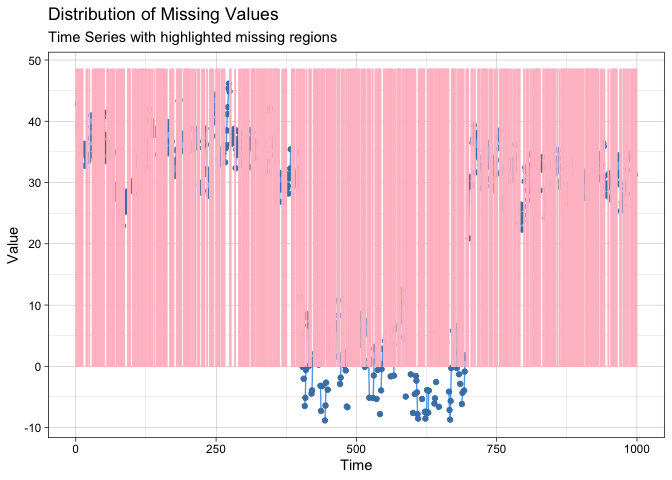
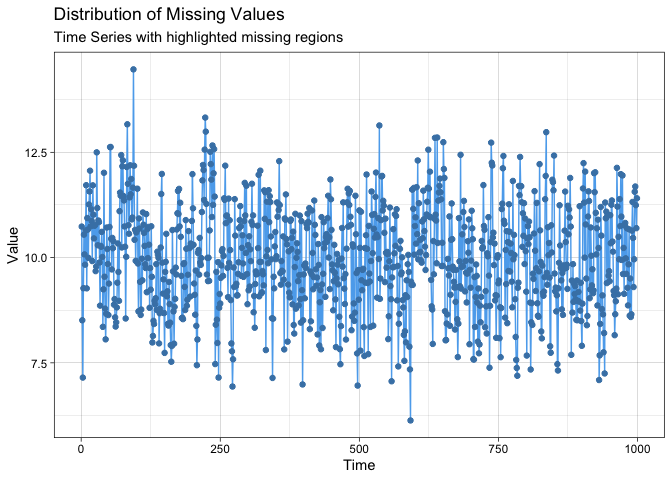
impute graph

diff --git a/docs/index.html b/docs/index.html
@@ -173,15 +173,12 @@
 </tbody>
 </table>
 <div class="sourceCode" id="cb4"><pre class="downlit sourceCode r">
-<code class="sourceCode R"><span class="fu">imputeTS</span><span class="fu">::</span><span class="fu"><a href="https://SteffenMoritz.github.io/imputeTS/reference/ggplot_na_distribution.html" class="external-link">ggplot_na_distribution</a></span><span class="op">(</span><span class="va">data_space_SSMimpute</span><span class="op">$</span><span class="va">y</span>, color_missing <span class="op">=</span> <span class="st">"pink"</span>,color_missing_border <span class="op">=</span> <span class="st">"pink"</span>, alpha_missing <span class="op">=</span> <span class="fl">0.9</span><span class="op">)</span></code></pre></div>
+<code class="sourceCode R"><span class="fu">imputeTS</span><span class="fu">::</span><span class="fu"><a href="https://SteffenMoritz.github.io/imputeTS/reference/ggplot_na_distribution.html" class="external-link">ggplot_na_distribution</a></span><span class="op">(</span><span class="va">data_space_SSMimpute</span><span class="op">$</span><span class="va">x</span>, color_missing <span class="op">=</span> <span class="st">"pink"</span>,color_missing_border <span class="op">=</span> <span class="st">"pink"</span>, alpha_missing <span class="op">=</span> <span class="fl">0.9</span><span class="op">)</span></code></pre></div>
 <p><img src="reference/figures/README-unnamed-chunk-4-1.png" width="100%"></p>
 <div class="sourceCode" id="cb5"><pre class="downlit sourceCode r">
-<code class="sourceCode R"><span class="fu">imputeTS</span><span class="fu">::</span><span class="fu"><a href="https://SteffenMoritz.github.io/imputeTS/reference/ggplot_na_distribution.html" class="external-link">ggplot_na_distribution</a></span><span class="op">(</span><span class="va">data_space_SSMimpute</span><span class="op">$</span><span class="va">x</span>, color_missing <span class="op">=</span> <span class="st">"pink"</span>,color_missing_border <span class="op">=</span> <span class="st">"pink"</span>, alpha_missing <span class="op">=</span> <span class="fl">0.9</span><span class="op">)</span></code></pre></div>
+<code class="sourceCode R"><span class="fu">imputeTS</span><span class="fu">::</span><span class="fu"><a href="https://SteffenMoritz.github.io/imputeTS/reference/ggplot_na_distribution.html" class="external-link">ggplot_na_distribution</a></span><span class="op">(</span><span class="va">data_space_SSMimpute</span><span class="op">$</span><span class="va">c</span>, color_missing <span class="op">=</span> <span class="st">"pink"</span>,color_missing_border <span class="op">=</span> <span class="st">"pink"</span>, alpha_missing <span class="op">=</span> <span class="fl">0.9</span><span class="op">)</span></code></pre></div>
 <p><img src="reference/figures/README-unnamed-chunk-4-2.png" width="100%"></p>
 <div class="sourceCode" id="cb6"><pre class="downlit sourceCode r">
-<code class="sourceCode R"><span class="fu">imputeTS</span><span class="fu">::</span><span class="fu"><a href="https://SteffenMoritz.github.io/imputeTS/reference/ggplot_na_distribution.html" class="external-link">ggplot_na_distribution</a></span><span class="op">(</span><span class="va">data_space_SSMimpute</span><span class="op">$</span><span class="va">c</span>, color_missing <span class="op">=</span> <span class="st">"pink"</span>,color_missing_border <span class="op">=</span> <span class="st">"pink"</span>, alpha_missing <span class="op">=</span> <span class="fl">0.9</span><span class="op">)</span></code></pre></div>
-<p><img src="reference/figures/README-unnamed-chunk-4-3.png" width="100%"></p>
-<div class="sourceCode" id="cb7"><pre class="downlit sourceCode r">
 <code class="sourceCode R"><span class="va">printFlag</span><span class="op">=</span><span class="cn">T</span>
 <span class="va">formula</span><span class="op">=</span><span class="st">"y~y_1+x+x_1+c"</span>
 <span class="va">formula_var</span><span class="op">=</span><span class="fu"><a href="https://rdrr.io/r/base/unlist.html" class="external-link">unlist</a></span><span class="op">(</span><span class="fu"><a href="https://rdrr.io/r/base/strsplit.html" class="external-link">strsplit</a></span><span class="op">(</span><span class="fu"><a href="https://rdrr.io/r/base/unlist.html" class="external-link">unlist</a></span><span class="op">(</span><span class="fu"><a href="https://rdrr.io/r/base/strsplit.html" class="external-link">strsplit</a></span><span class="op">(</span><span class="va">formula</span>,<span class="st">"~"</span><span class="op">)</span><span class="op">)</span><span class="op">[</span><span class="fl">2</span><span class="op">]</span>,<span class="st">"+"</span>,fixed<span class="op">=</span><span class="cn">T</span><span class="op">)</span><span class="op">)</span>
@@ -430,7 +427,7 @@
 <span class="co">#&gt; Warning in BINSEG(sumstat, pen = pen.value, cost_func = costfunc, minseglen</span>
 <span class="co">#&gt; = minseglen, : The number of changepoints identified is Q, it is advised to</span>
 <span class="co">#&gt; increase Q to make sure changepoints have not been missed.</span></code></pre></div>
-<div class="sourceCode" id="cb8"><pre class="downlit sourceCode r">
+<div class="sourceCode" id="cb7"><pre class="downlit sourceCode r">
 <code class="sourceCode R"><span class="co">#kable(result_statespace_SSMimpute1$result_convergence)</span>
 <span class="co">#kable(result_statespace_SSMimpute1$result_convergence_mp)</span>
 <span class="fu">kable</span><span class="op">(</span><span class="va">result_statespace_SSMimpute1</span><span class="op">$</span><span class="va">result_convergence_mp_addV</span><span class="op">)</span></code></pre></div>
@@ -488,9 +485,22 @@
 </tr>
 </tbody>
 </table>
-<div class="sourceCode" id="cb9"><pre class="downlit sourceCode r">
+<div class="sourceCode" id="cb8"><pre class="downlit sourceCode r">
 <code class="sourceCode R"><span class="va">result_statespace_SSMimpute1</span><span class="op">$</span><span class="va">estimated_cpts</span>
 <span class="co">#&gt; [1] 399 700</span></code></pre></div>
+<div class="sourceCode" id="cb9"><pre class="downlit sourceCode r">
+<code class="sourceCode R"><span class="va">data_na</span> <span class="op">=</span> <span class="va">result_statespace_SSMimpute1</span><span class="op">$</span><span class="va">data_temp</span>
+<span class="fu"><a href="https://rdrr.io/r/base/length.html" class="external-link">length</a></span><span class="op">(</span><span class="va">data_na</span><span class="op">$</span><span class="va">y_1</span><span class="op">)</span>
+<span class="co">#&gt; [1] 999</span>
+
+<span class="va">data_temp</span> <span class="op">=</span> <span class="va">result_statespace_SSMimpute1</span><span class="op">$</span><span class="va">data_temp</span>
+<span class="va">missing_part</span><span class="op">=</span><span class="fu"><a href="https://rdrr.io/r/base/which.html" class="external-link">which</a></span><span class="op">(</span><span class="fu"><a href="https://rdrr.io/r/base/NA.html" class="external-link">is.na</a></span><span class="op">(</span><span class="va">data_temp</span><span class="op">$</span><span class="va">y</span><span class="op">)</span><span class="op">)</span><span class="op">[</span><span class="fu"><a href="https://rdrr.io/r/base/which.html" class="external-link">which</a></span><span class="op">(</span><span class="fu"><a href="https://rdrr.io/r/base/NA.html" class="external-link">is.na</a></span><span class="op">(</span><span class="va">data_temp</span><span class="op">$</span><span class="va">y</span><span class="op">)</span><span class="op">)</span><span class="op">&lt;</span><span class="fu"><a href="https://rdrr.io/r/base/nrow.html" class="external-link">nrow</a></span><span class="op">(</span><span class="va">data_temp</span><span class="op">)</span><span class="op">]</span>
+<span class="va">data_temp</span><span class="op">$</span><span class="va">y_1</span><span class="op">[</span><span class="va">missing_part</span><span class="op">+</span><span class="fl">1</span><span class="op">]</span><span class="op">=</span><span class="va">result_statespace_SSMimpute1</span><span class="op">$</span><span class="va">y_final</span>
+<span class="fu">imputeTS</span><span class="fu">::</span><span class="fu"><a href="https://SteffenMoritz.github.io/imputeTS/reference/ggplot_na_distribution.html" class="external-link">ggplot_na_distribution</a></span><span class="op">(</span><span class="va">data_space_SSMimpute</span><span class="op">$</span><span class="va">y_1</span>, color_missing <span class="op">=</span> <span class="st">"pink"</span>,color_missing_border <span class="op">=</span> <span class="st">"pink"</span>, alpha_missing <span class="op">=</span> <span class="fl">0.9</span><span class="op">)</span></code></pre></div>
+<p><img src="reference/figures/README-unnamed-chunk-7-1.png" width="100%"></p>
+<div class="sourceCode" id="cb10"><pre class="downlit sourceCode r">
+<code class="sourceCode R"><span class="fu">imputeTS</span><span class="fu">::</span><span class="fu"><a href="https://SteffenMoritz.github.io/imputeTS/reference/ggplot_na_imputations.html" class="external-link">ggplot_na_imputations</a></span><span class="op">(</span>x_with_na <span class="op">=</span>  <span class="va">data_space_SSMimpute</span><span class="op">$</span><span class="va">y_1</span>, x_with_imputations <span class="op">=</span> <span class="va">data_na</span><span class="op">$</span><span class="va">y_1</span><span class="op">)</span></code></pre></div>
+<p><img src="reference/figures/README-unnamed-chunk-7-2.png" width="100%"></p>
 </div>
 </div>
   </main><aside class="col-md-3"><div class="links">

diff --git a/docs/reference/printer.html b/docs/reference/printer.html
@@ -78,13 +78,13 @@
 <span class="r-wrn co"><span class="r-pr">#&gt;</span> <span style="color: #555555;">This warning is displayed once every 8 hours.</span></span>
 <span class="r-wrn co"><span class="r-pr">#&gt;</span> <span style="color: #555555;">Call `lifecycle::last_lifecycle_warnings()` to see where this warning was generated.</span></span>
 <span class="r-out co"><span class="r-pr">#&gt;</span> <span style="color: #949494;"># A tibble: 5 × 1</span></span>
-<span class="r-out co"><span class="r-pr">#&gt;</span>     value</span>
-<span class="r-out co"><span class="r-pr">#&gt;</span>     <span style="color: #949494; font-style: italic;">&lt;dbl&gt;</span></span>
-<span class="r-out co"><span class="r-pr">#&gt;</span> <span style="color: #BCBCBC;">1</span>  0.031<span style="text-decoration: underline;">3</span></span>
-<span class="r-out co"><span class="r-pr">#&gt;</span> <span style="color: #BCBCBC;">2</span> -<span style="color: #BB0000;">0.256</span> </span>
-<span class="r-out co"><span class="r-pr">#&gt;</span> <span style="color: #BCBCBC;">3</span>  1.23  </span>
-<span class="r-out co"><span class="r-pr">#&gt;</span> <span style="color: #BCBCBC;">4</span> -<span style="color: #BB0000;">0.603</span> </span>
-<span class="r-out co"><span class="r-pr">#&gt;</span> <span style="color: #BCBCBC;">5</span>  0.587 </span>
+<span class="r-out co"><span class="r-pr">#&gt;</span>    value</span>
+<span class="r-out co"><span class="r-pr">#&gt;</span>    <span style="color: #949494; font-style: italic;">&lt;dbl&gt;</span></span>
+<span class="r-out co"><span class="r-pr">#&gt;</span> <span style="color: #BCBCBC;">1</span>  1.11 </span>
+<span class="r-out co"><span class="r-pr">#&gt;</span> <span style="color: #BCBCBC;">2</span> -<span style="color: #BB0000;">1.85</span> </span>
+<span class="r-out co"><span class="r-pr">#&gt;</span> <span style="color: #BCBCBC;">3</span> -<span style="color: #BB0000;">0.588</span></span>
+<span class="r-out co"><span class="r-pr">#&gt;</span> <span style="color: #BCBCBC;">4</span>  0.306</span>
+<span class="r-out co"><span class="r-pr">#&gt;</span> <span style="color: #BCBCBC;">5</span> -<span style="color: #BB0000;">0.413</span></span>
 </code></pre></div>
     </div>
   </main><aside class="col-md-3"><nav id="toc"><h2>On this page</h2>

diff --git a/README.md b/README.md
@@ -65,22 +65,16 @@ kable(head(data_space_SSMimpute))
 |   7 | 2019-02-18 |       NA | 10.075845 | 7.783034 | 39.27642 | 10.543667 | 8.265307 |
 
 ``` r
-imputeTS::ggplot_na_distribution(data_space_SSMimpute$y, color_missing = "pink",color_missing_border = "pink", alpha_missing = 0.9)
+imputeTS::ggplot_na_distribution(data_space_SSMimpute$x, color_missing = "pink",color_missing_border = "pink", alpha_missing = 0.9)
 ```
 
 <img src="man/figures/README-unnamed-chunk-4-1.png" width="100%" />
 
 ``` r
-imputeTS::ggplot_na_distribution(data_space_SSMimpute$x, color_missing = "pink",color_missing_border = "pink", alpha_missing = 0.9)
-```
-
-<img src="man/figures/README-unnamed-chunk-4-2.png" width="100%" />
-
-``` r
 imputeTS::ggplot_na_distribution(data_space_SSMimpute$c, color_missing = "pink",color_missing_border = "pink", alpha_missing = 0.9)
 ```
 
-<img src="man/figures/README-unnamed-chunk-4-3.png" width="100%" />
+<img src="man/figures/README-unnamed-chunk-4-2.png" width="100%" />
 
 ``` r
 printFlag=T
@@ -355,3 +349,22 @@ kable(result_statespace_SSMimpute1$result_convergence_mp_addV)
 result_statespace_SSMimpute1$estimated_cpts
 #> [1] 399 700
 ```
+
+``` r
+data_na = result_statespace_SSMimpute1$data_temp
+length(data_na$y_1)
+#> [1] 999
+
+data_temp = result_statespace_SSMimpute1$data_temp
+missing_part=which(is.na(data_temp$y))[which(is.na(data_temp$y))<nrow(data_temp)]
+data_temp$y_1[missing_part+1]=result_statespace_SSMimpute1$y_final
+imputeTS::ggplot_na_distribution(data_space_SSMimpute$y_1, color_missing = "pink",color_missing_border = "pink", alpha_missing = 0.9)
+```
+
+<img src="man/figures/README-unnamed-chunk-7-1.png" width="100%" />
+
+``` r
+imputeTS::ggplot_na_imputations(x_with_na =  data_space_SSMimpute$y_1, x_with_imputations = data_na$y_1)
+```
+
+<img src="man/figures/README-unnamed-chunk-7-2.png" width="100%" />
